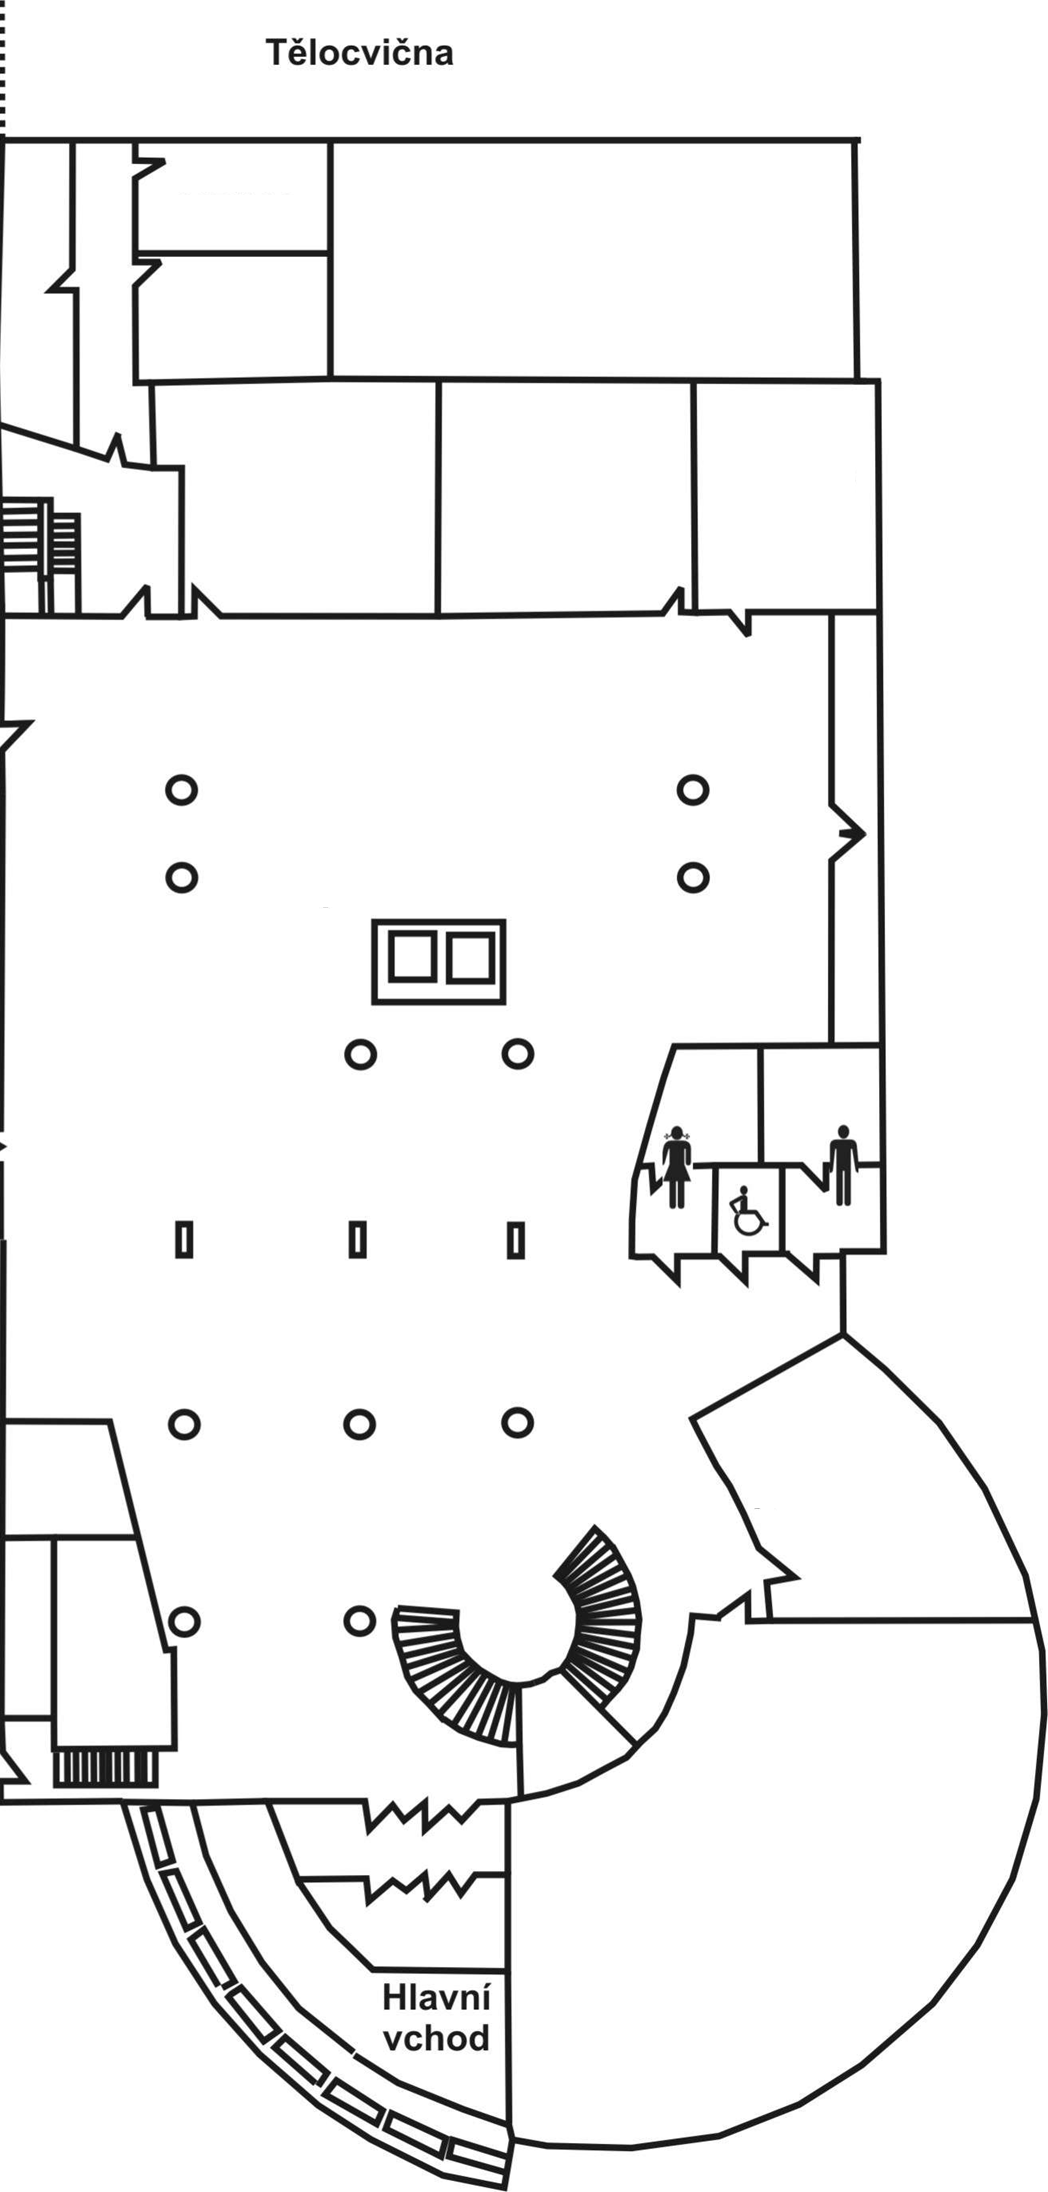
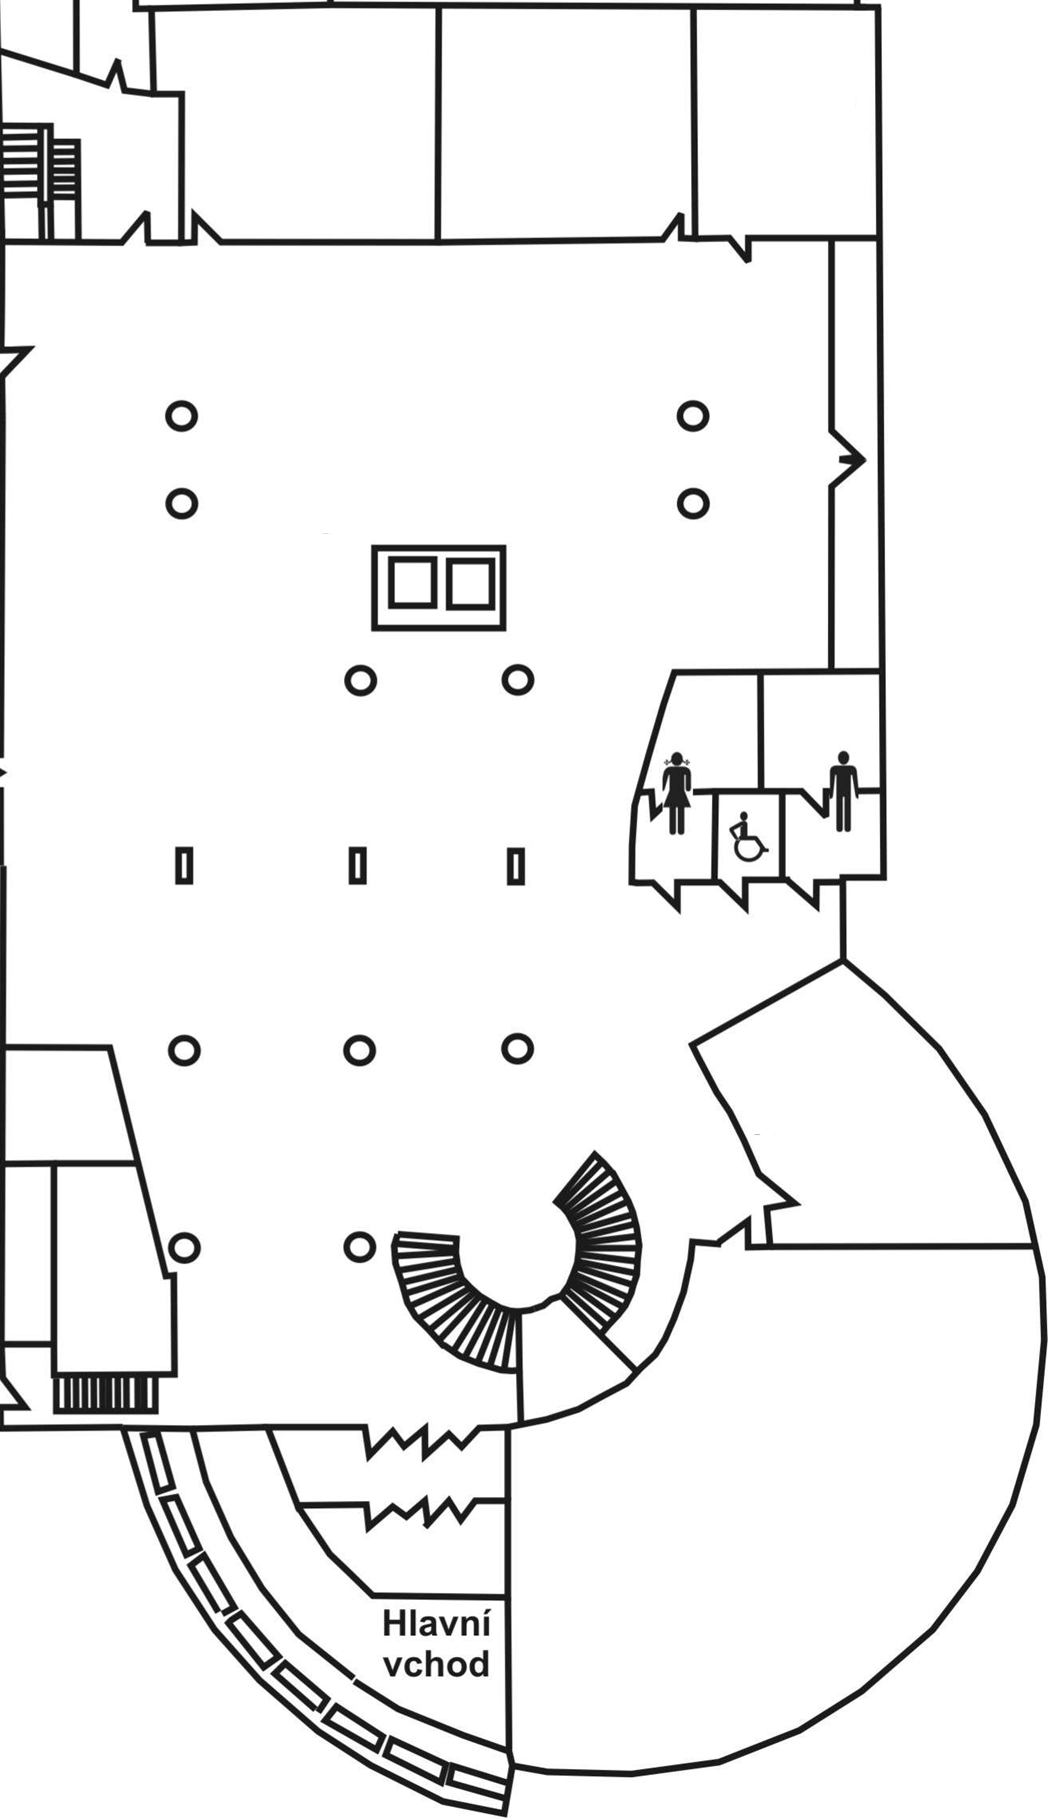
added second floor

diff --git a/public/assets/app.js b/public/assets/app.js
@@ -47,6 +47,9 @@ async function releaseTable() {
     load();
 }
 
+
+let currentFloor = 1;
+
 function render(data) {
     const app = document.getElementById("app");
     app.innerHTML = "";
@@ -77,20 +80,62 @@ function render(data) {
     app.appendChild(info);
 
     // 2. Map View
+    const mapSection = document.createElement("div");
+    mapSection.className = "row align-start";
+    mapSection.style.marginTop = "24px";
+    mapSection.style.gap = "20px";
+
+    // Controls Side
+    const controls = document.createElement("div");
+    controls.style.minWidth = "150px";
+
     const mapTitle = document.createElement("h3");
     mapTitle.textContent = "Floor Plan";
-    mapTitle.style.marginTop = "24px";
-    app.appendChild(mapTitle);
+    mapTitle.style.marginBottom = "10px";
+    controls.appendChild(mapTitle);
 
+    const floorLabel = document.createElement("p");
+    floorLabel.className = "muted";
+    floorLabel.textContent = "Select floor:";
+    controls.appendChild(floorLabel);
+
+    const btnGroup = document.createElement("div");
+    btnGroup.className = "stack";
+    btnGroup.style.gap = "8px";
+
+    [1, 2].forEach(f => {
+        const btn = document.createElement("button");
+        btn.textContent = f === 1 ? "Ground Floor" : "1st Floor";
+        // Simple styling toggle
+        if (currentFloor === f) {
+            btn.style.backgroundColor = "var(--primary, #333)";
+            btn.style.color = "#fff";
+        } else {
+            btn.className = "outline";
+            btn.onclick = () => {
+                currentFloor = f;
+                render(data);
+            };
+        }
+        btn.style.width = "100%";
+        btnGroup.appendChild(btn);
+    });
+    controls.appendChild(btnGroup);
+    mapSection.appendChild(controls);
+
+    // Map Container
     const mapContainer = document.createElement("div");
     mapContainer.className = "map-container";
+    mapContainer.style.flex = "1";
 
     const img = document.createElement("img");
-    img.src = "public/assets/patro1.png";
-    img.alt = "Floor Plan";
+    img.src = `public/assets/patro${currentFloor}.png`;
+    img.alt = `Floor Plan ${currentFloor}`;
     mapContainer.appendChild(img);
 
     tables.forEach((t) => {
+        if (t.floor !== currentFloor) return;
+
         // Determine status
         const isCurrent = ticket.current_table && ticket.current_table.table_id === t.id;
         const isFull = t.remaining < 1;
@@ -114,7 +159,10 @@ function render(data) {
 
         mapContainer.appendChild(dot);
     });
-    app.appendChild(mapContainer);
+    mapSection.appendChild(mapContainer);
+
+    app.appendChild(mapSection);
+
 
     // 3. List view
     const listTitle = document.createElement("h3");

diff --git a/public/assets/style.css b/public/assets/style.css
@@ -109,6 +109,26 @@ button,
   background: var(--red);
 }
 
+button.outline,
+.btn.outline {
+  background: transparent;
+  border: 1px solid var(--border);
+  color: var(--text);
+  box-shadow: none;
+}
+
+button.outline:hover,
+.btn.outline:hover {
+  border-color: var(--blue);
+  color: var(--blue);
+  background: #eff6ff;
+}
+
+.row.align-start {
+  align-items: flex-start;
+}
+
+
 .muted {
   color: var(--muted);
   margin: 6px 0 0;

diff --git a/api/ticket.php b/api/ticket.php
@@ -38,6 +38,7 @@ $stmt = $pdo->query("
     tb.capacity,
     tb.position_x,
     tb.position_y,
+    tb.floor,
     (tb.capacity - COALESCE(used.used_count, 0)) AS remaining
   FROM tables tb
   LEFT JOIN (
@@ -67,5 +68,6 @@ json_response([
     'remaining' => (int) $t['remaining'],
     'position_x' => (float) $t['position_x'],
     'position_y' => (float) $t['position_y'],
+    'floor' => (int) ($t['floor'] ?? 1),
   ], $available),
 ]);
